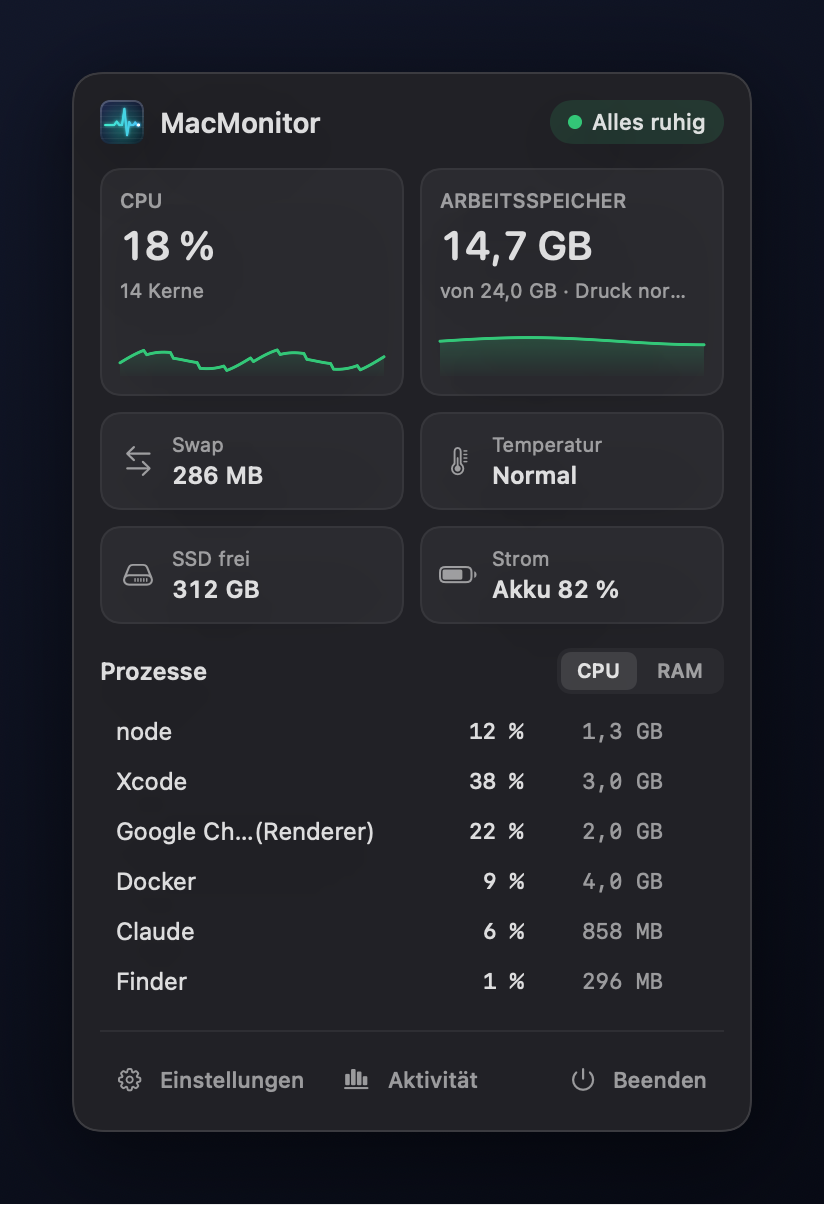
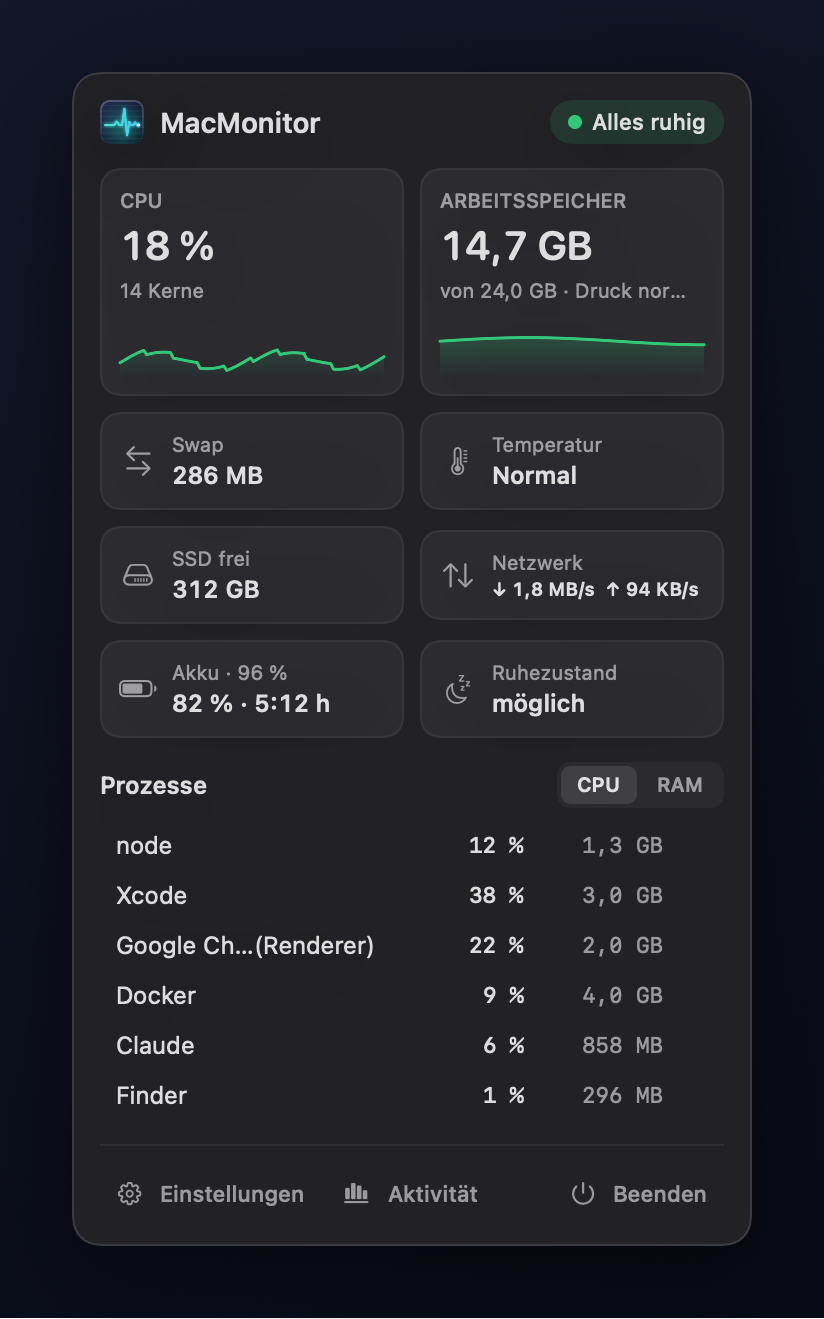
docs: Hinweisfenster, neue Regel und Messquellen dokumentieren

diff --git a/README.md b/README.md
@@ -10,7 +10,7 @@
 </p>
 
 **MacMonitor** ist eine native Menüleisten-App für macOS. Sie misst CPU, Speicher, Swap, Temperatur,
-SSD und Netz direkt über die Kernel-Schnittstellen und schickt eine **echte macOS-Mitteilung**, sobald
+SSD, Netzwerk-Durchsatz, Akku und Schlaf-Blockierer direkt über die Kernel-Schnittstellen und schickt eine **echte macOS-Mitteilung**, sobald
 etwas auffällt: ein Prozess, der seit Minuten hängt, ein Speicherfresser, Speicherdruck oder Überhitzung.
 Solange alles normal ist, bleibt sie still und braucht kaum Strom.
 
@@ -32,13 +32,23 @@ Solange alles normal ist, bleibt sie still und braucht kaum Strom.
 | Überhitzung | thermischer Zustand „ernst“ oder „kritisch“ | größter Verbraucher |
 | Festplatte voll | < 10 % oder < 15 GB frei | |
 | Internet weg | 30 s offline, Meldung auch bei Wiederkehr | |
+| Ruhezustand blockiert | ein Prozess verhindert im Akkubetrieb > 30 min den Schlaf | Beenden …, 1 h stumm |
 
 Alle Schwellen, Dauern und Regeln lassen sich in den Einstellungen ändern. Prozesse kannst du dauerhaft
 ignorieren oder direkt aus der Mitteilung für eine Stunde stummschalten.
 
+### Hinweis auf dem Bildschirm, an dem du arbeitest
+
+macOS zeigt Mitteilungs-Banner nur auf dem Hauptbildschirm. Wer an externen Monitoren arbeitet, sieht sie
+nicht. MacMonitor blendet deshalb zusätzlich ein eigenes Hinweisfenster oben rechts auf dem Bildschirm
+ein, auf dem gerade der Mauszeiger ist. Es nimmt keinen Fokus, verschwindet nach 12 s (kritisch 30 s)
+und bietet dieselben Aktionen. Einstellbar: aus, nur an anderen Bildschirmen (Standard), immer.
+
 <p align="center">
-  <img src="docs/images/notification.png" alt="Beispiel einer Mitteilung" width="440">
+  <img src="docs/images/overlay.png" alt="Hinweisfenster von MacMonitor" width="420">
 </p>
+
+Testen: `open macmonitor://test` oder „Testmitteilung senden“ in den Einstellungen.
 
 **Damit es nicht nervt:**
 
@@ -57,7 +67,8 @@ MacMonitor startet **keinen einzigen Hilfsprozess**. Gemessen auf einem MacBook 
 geschlossen: **0,12 s CPU-Zeit in 162 s (≈ 0,07 % CPU)** bei konstant ~79 MB Speicher.
 
 - **Direkte Systemaufrufe:** `host_statistics` (CPU), `host_statistics64` (VM), `sysctl`
-  (Swap, Speicherdruck), `proc_pid_rusage` (CPU-Zeit und Footprint je Prozess), IOKit (Akku).
+  (Swap, Speicherdruck, 64-Bit-Netzwerkzähler), `proc_pid_rusage` (CPU-Zeit und Footprint je Prozess),
+  IOKit (Akku, Ladezyklen, Power-Assertions).
 - **Adaptives Intervall:** 2 s bei offenem Popover, 10 s am Netzteil, 20 s im Akkubetrieb, 30 s im
   Stromsparmodus.
 - **Gebündelte Weckungen:** Ein `DispatchSourceTimer` mit 25 % Toleranz lässt macOS die Messungen mit
@@ -67,7 +78,8 @@ geschlossen: **0,12 s CPU-Zeit in 162 s (≈ 0,07 % CPU)** bei konstant ~79 MB S
 - **Ruhige Menüleiste:** Jede Textänderung in der Menüleiste lässt macOS das Symbol auf jedem Bildschirm
   neu rendern (~40 ms). Standard ist deshalb „Nur Symbol“, das nur bei Warnungen wechselt. Wer CPU/RAM
   als Zahl sehen will, bekommt sie gedrosselt: neu gezeichnet wird erst ab 5 Punkten Änderung.
-- **Caches:** Prozessnamen werden je PID nur einmal aufgelöst, der SSD-Platz nur alle 5 min gelesen.
+- **Caches:** Prozessnamen werden je PID nur einmal aufgelöst, SSD-Platz und Akkuzustand nur alle
+  5 min gelesen, Schlaf-Blockierer jede Minute.
 
 ## Installation
 

diff --git a/docs/specs/2026-10-02-macmonitor-design.md b/docs/specs/2026-10-02-macmonitor-design.md
@@ -45,6 +45,7 @@ Footprint je Prozess), `ProcessInfo.thermalState`, `NWPathMonitor`, IOKit Power 
 | Thermik | Zustand „ernst“ oder „kritisch“ |
 | Festplatte | < 10 % oder < 15 GB frei |
 | Netzwerk | offline ≥ 30 s (plus Meldung bei Wiederkehr) |
+| Ruhezustand blockiert | Prozess hält im Akkubetrieb > 30 min eine Schlaf-Assertion |
 
 Engine-Semantik: Eine Condition muss für ihre `sustain`-Dauer ununterbrochen aktiv sein, bevor sie
 meldet. Danach meldet sie erst wieder nach dem Abklingen oder als Erinnerung nach 30 min.
